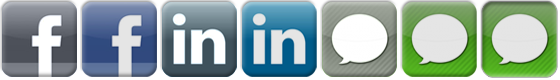
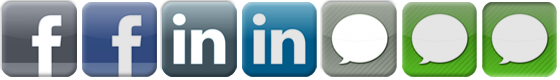
updated assets, add message panel slide

diff --git a/js/app.js b/js/app.js
@@ -31,15 +31,17 @@ $(function (){
 	};
 	updateMessagePanelMetrics();
 
-	var resize = function (){
-		/*console.log("resize", 
-			"window: " + windowHeight + "x" + windowWidth,
-			"panel: " + nameplatePanelHeight + "x" + nameplatePanelWidth
-		);*/
+	// now that all dimensions have been calculated, some setup
+	$message_panel.css("top", windowHeight);
 
+	var resize = function (){
 		$nameplate_panel.css({
 			top: (windowHeight - nameplatePanelHeight) / 2,
 			left: (windowWidth - nameplatePanelWidth) / 2
+		});
+
+		$message_panel.css({
+			left: (windowWidth - messagePanelWidth) / 2
 		});
 	};
 	resize();
@@ -50,9 +52,9 @@ $(function (){
 	});
 
 	$social_buttons.find("a").hover(function (){
-		$(this).find("span.highlight").stop(true, false).fadeIn();
+		$(this).find("span.highlight").stop(true, false).fadeIn(250);
 	}, function (){
-		$(this).find("span.highlight").stop(true, false).fadeOut();
+		$(this).find("span.highlight").stop(true, false).fadeOut(200);
 	});
 
 	$social_buttons.find("span").hide();
@@ -62,9 +64,36 @@ $(function (){
 		e.preventDefault();
 
 		if(messagePanelIsDisplayed){
+			$(this).find("span.highlight").fadeOut(0);
 			$(this).find("span.active").hide();
+
+			$nameplate_panel.queue("slide", function (next){
+				$(this).animate({
+					top: (windowHeight - nameplatePanelHeight) / 2
+				}, 500, next);
+			}).dequeue("slide");
+
+			$message_panel.queue("slide", function (next){
+				$(this).animate({
+					top: windowHeight
+				}, 500, next);
+			}).dequeue("slide");
 		} else {
 			$(this).find("span.active").show();
+			$(this).find("span.highlight").fadeOut(0);
+
+			$nameplate_panel.queue("slide", function (next){
+				$(this).animate({
+					top: (windowHeight - nameplatePanelHeight - messagePanelHeight) / 2
+				}, 500, next);
+			}).dequeue("slide");
+
+			$message_panel.queue("slide", function (next){
+				$(this).animate({
+					top: (windowHeight - nameplatePanelHeight + messagePanelHeight) / 2
+				}, 500, next);
+			}).dequeue("slide");
+
 		}
 
 		messagePanelIsDisplayed = !messagePanelIsDisplayed;

diff --git a/css/app.css b/css/app.css
@@ -1,5 +1,29 @@
+/* http://meyerweb.com/eric/tools/css/reset/ v2.0 | 20110126 License: none (public domain) */
+html, body, div, span, applet, object, iframe,
+h1, h2, h3, h4, h5, h6, p, blockquote, pre,
+a, abbr, acronym, address, big, cite, code,
+del, dfn, em, img, ins, kbd, q, s, samp,
+small, strike, strong, sub, sup, tt, var,
+b, u, i, center,
+dl, dt, dd, ol, ul, li,
+fieldset, form, label, legend,
+table, caption, tbody, tfoot, thead, tr, th, td,
+article, aside, canvas, details, embed, 
+figure, figcaption, footer, header, hgroup, 
+menu, nav, output, ruby, section, summary,
+itime, mark, audio, video { margin: 0; padding: 0; border: 0; font-size: 100%; font: inherit; vertical-align: baseline; }
+article, aside, details, figcaption, figure, 
+footer, header, hgroup, menu, nav, section { display: block; }
+body { line-height: 1; }
+ol, ul { list-style: none; }
+blockquote, q { quotes: none; }
+blockquote:before, blockquote:after,
+q:before, q:after { content: ''; content: none; }
+table { border-collapse: collapse; border-spacing: 0; }
 
-body { background: url(../assets/tiles.jpg) repeat center center; }
+/* @author Matt Curcio */
+body { background: url(../assets/tiles.jpg) repeat center center; overflow: hidden; }
+
 #nameplate-panel { position: absolute; background: url(../assets/nameplate.png) no-repeat; width: 640px; height: 246px; margin-top: 60px; z-index: 110; }
 #titles { display: none; position: absolute; bottom: 20px; left: 20px; }
 #titles > ul > li { display: block; text-transform: uppercase; }
@@ -13,3 +37,5 @@ body { background: url(../assets/tiles.jpg) repeat center center; }
 #social > a.email { right: 0; background-position-x: -320px; }
 #social > a.email span.highlight { background-position-x: -400px; }
 #social > a.email span.active { background-position-x: -480px; }
+
+#message-panel { position: absolute; width: 640px; height: 329px; background: url(../assets/message-panel.png) no-repeat; }

diff --git a/index.html b/index.html
@@ -25,7 +25,7 @@
 			</div>
 		</div>
 
-		<div id="message-panel" style="display: none;">
+		<div id="message-panel">
 			
 		</div>
 	</body>
